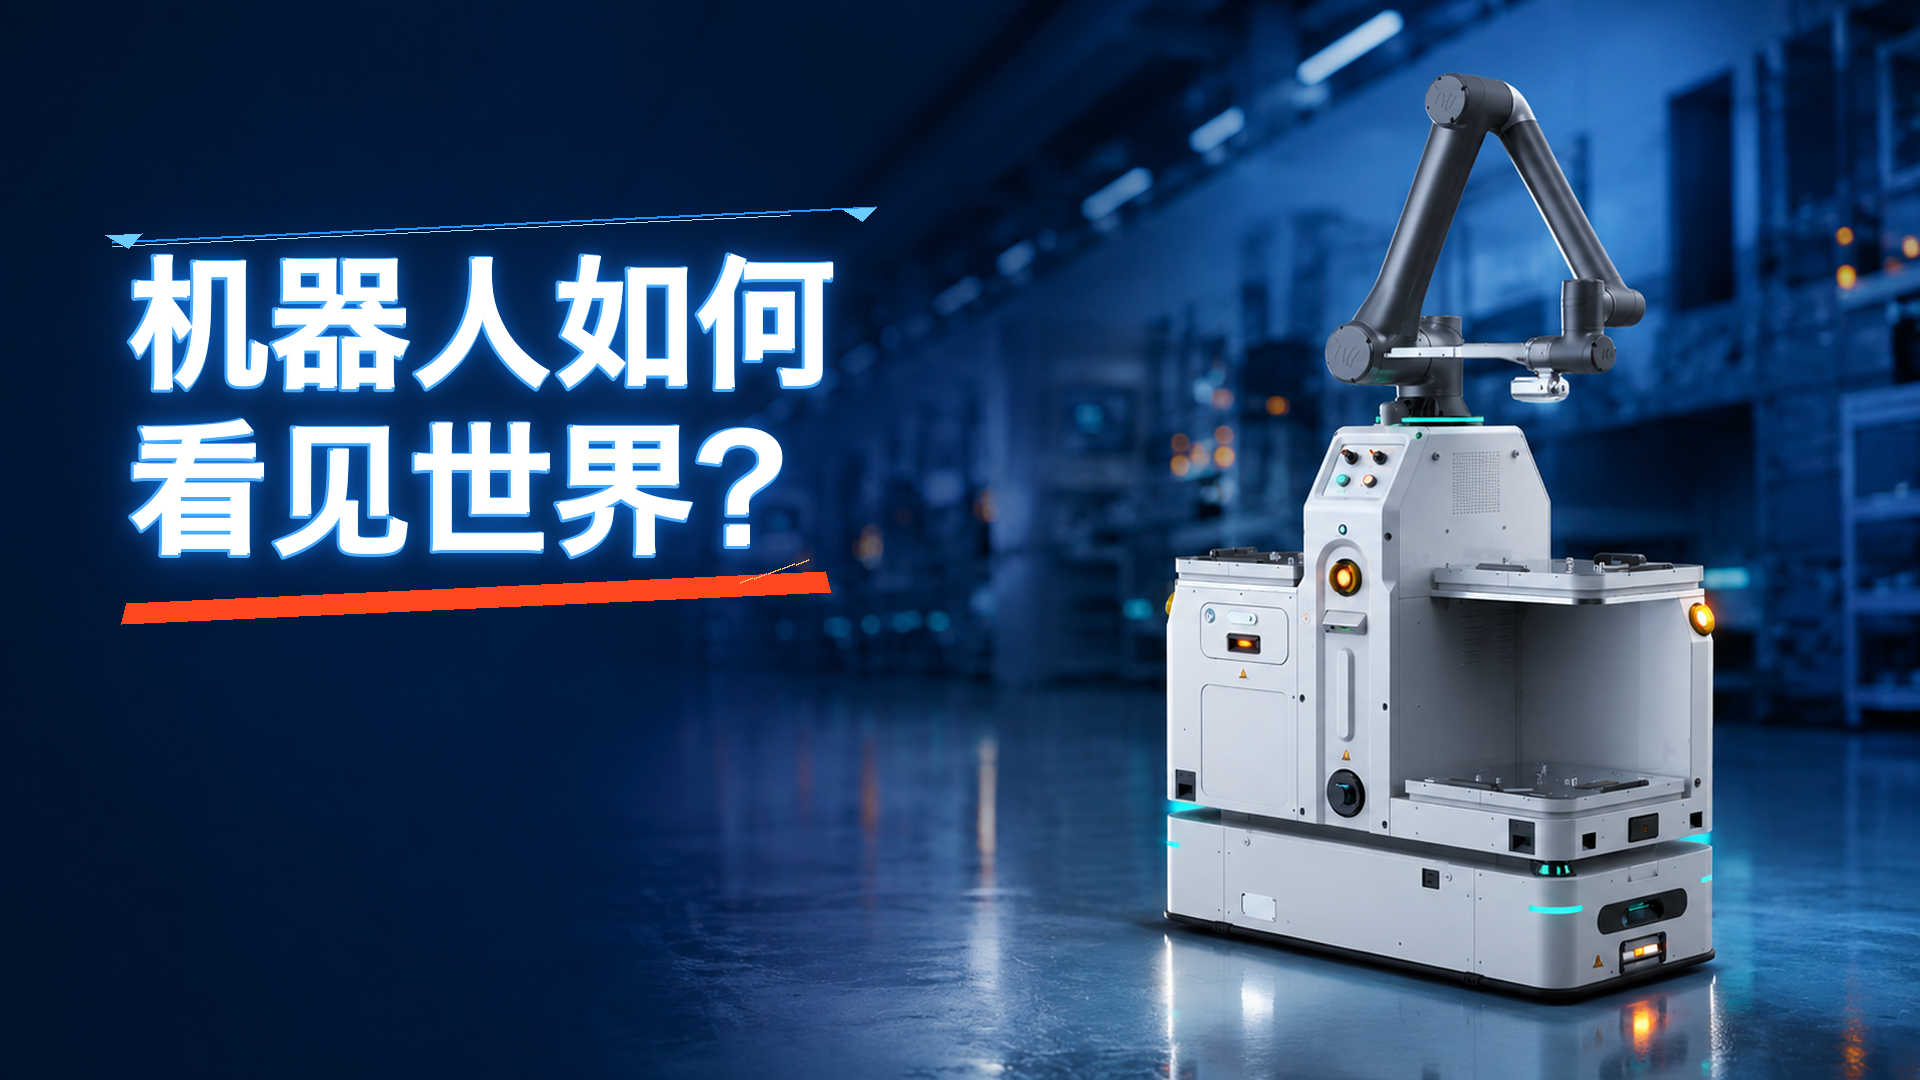
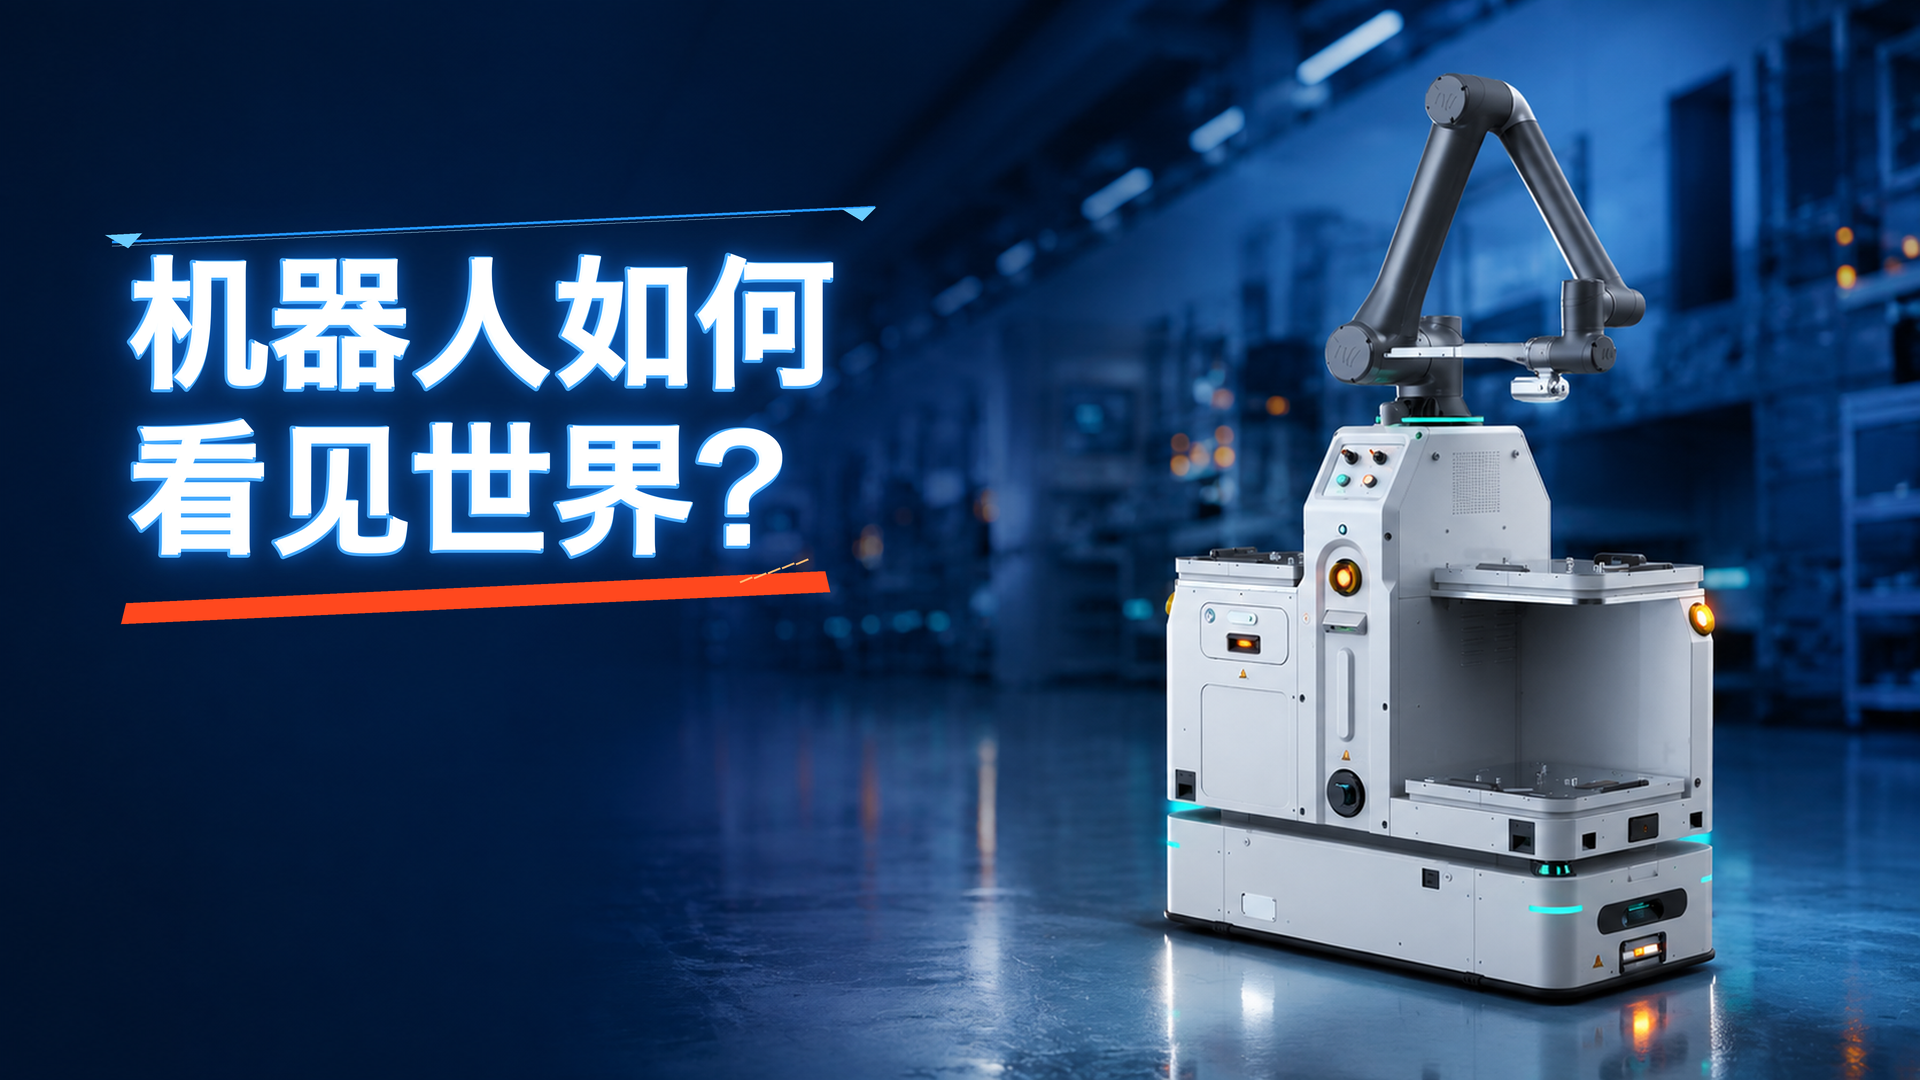
修复科技封面文字锯齿

diff --git a/work/create_cover.py b/work/create_cover.py
@@ -38,52 +38,57 @@ def add_regular_title(canvas):
     draw.polygon([(126, 603), (825, 571), (830, 592), (121, 624)], fill=(255, 72, 30))
 
 
-def add_tech_title(canvas):
+def add_tech_title(canvas, scale=1):
     """Use the first video tech-cover language without changing the approved background."""
-    font = ImageFont.truetype(FONT, 142, index=2)
+    font = ImageFont.truetype(FONT, 142 * scale, index=2)
     lines = ['机器人如何', '看见世界？']
-    x, y = 126, 252
+    x, y = 126 * scale, 252 * scale
 
     # Layered cyan glow gives the otherwise neutral system font a technical edge.
-    mask = Image.new('L', (W, H), 0)
+    mask = Image.new('L', canvas.size, 0)
     mask_draw = ImageDraw.Draw(mask)
     text_y = y
     for line in lines:
-        mask_draw.text((x, text_y), line, font=font, fill=255, stroke_width=2, stroke_fill=255)
-        text_y += 166
+        mask_draw.text((x, text_y), line, font=font, fill=255, stroke_width=2 * scale, stroke_fill=255)
+        text_y += 166 * scale
     for radius, opacity in ((28, 105), (9, 180)):
-        glow = Image.new('RGBA', (W, H), (18, 129, 255, 0))
-        blurred = mask.filter(ImageFilter.GaussianBlur(radius))
+        glow = Image.new('RGBA', canvas.size, (18, 129, 255, 0))
+        blurred = mask.filter(ImageFilter.GaussianBlur(radius * scale))
         glow.putalpha(blurred.point(lambda value: value * opacity // 255))
         canvas.alpha_composite(glow)
 
     draw = ImageDraw.Draw(canvas)
     # Energy rail and slanted micro accents echo the earlier blue tech cover.
-    draw.line((112, 242, 875, 207), fill=(33, 148, 255, 160), width=3)
-    draw.line((112, 246, 790, 215), fill=(170, 228, 255, 120), width=1)
-    draw.polygon([(105, 235), (142, 233), (128, 248)], fill=(106, 204, 255, 230))
-    draw.polygon([(842, 209), (876, 207), (862, 221)], fill=(106, 204, 255, 190))
+    draw.line(tuple(value * scale for value in (112, 242, 875, 207)), fill=(33, 148, 255, 160), width=3 * scale)
+    draw.line(tuple(value * scale for value in (112, 246, 790, 215)), fill=(170, 228, 255, 120), width=scale)
+    draw.polygon([(105 * scale, 235 * scale), (142 * scale, 233 * scale), (128 * scale, 248 * scale)], fill=(106, 204, 255, 230))
+    draw.polygon([(842 * scale, 209 * scale), (876 * scale, 207 * scale), (862 * scale, 221 * scale)], fill=(106, 204, 255, 190))
 
     text_y = y
     for line in lines:
         draw.text(
             (x, text_y), line, font=font, fill=(248, 253, 255, 255),
-            stroke_width=3, stroke_fill=(67, 170, 255, 255),
+            stroke_width=3 * scale, stroke_fill=(67, 170, 255, 255),
         )
         # Thin offset highlight makes the title feel engineered rather than bubbly.
-        draw.text((x + 3, text_y - 2), line, font=font, fill=(255, 255, 255, 255))
-        text_y += 166
+        draw.text((x + 3 * scale, text_y - 2 * scale), line, font=font, fill=(255, 255, 255, 255))
+        text_y += 166 * scale
 
-    draw.polygon([(126, 603), (825, 571), (830, 592), (121, 624)], fill=(255, 72, 30, 255))
+    draw.polygon([(126 * scale, 603 * scale), (825 * scale, 571 * scale), (830 * scale, 592 * scale), (121 * scale, 624 * scale)], fill=(255, 72, 30, 255))
     for offset in range(0, 70, 14):
-        draw.line((740 + offset, 582 - offset // 3, 752 + offset, 577 - offset // 3), fill=(255, 184, 114, 255), width=2)
+        draw.line(tuple(value * scale for value in (740 + offset, 582 - offset // 3, 752 + offset, 577 - offset // 3)), fill=(255, 184, 114, 255), width=2 * scale)
 
 
 def main():
     tech_style = '--tech' in sys.argv
     canvas = cover_background()
     if tech_style:
-        add_tech_title(canvas)
+        # Supersample title geometry, then reduce it to the delivery resolution.
+        # This keeps the neon outlines clean instead of leaving staircase edges.
+        title_scale = 3
+        canvas = canvas.resize((W * title_scale, H * title_scale), Image.LANCZOS)
+        add_tech_title(canvas, title_scale)
+        canvas = canvas.resize((W, H), Image.LANCZOS)
         output = TECH_OUTPUT
     else:
         add_regular_title(canvas)
